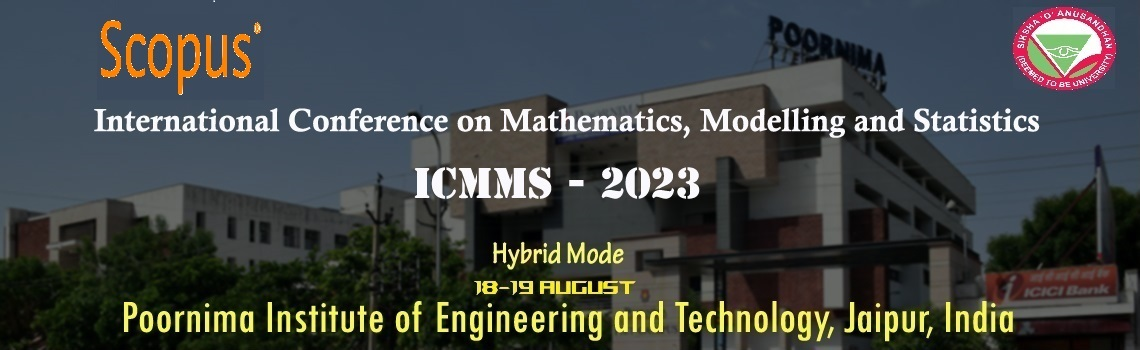
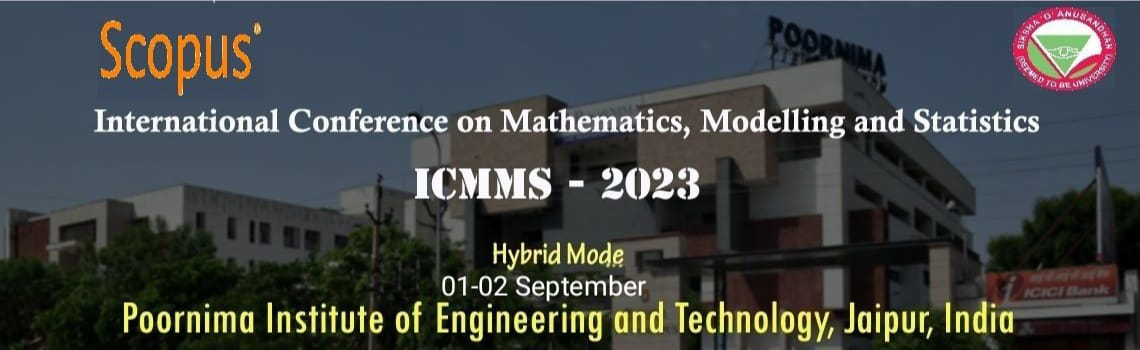
change

diff --git a/Committee.html b/Committee.html
@@ -2,7 +2,7 @@
 <html>
 <head>
 <meta http-equiv="Content-Type" content="text/html; charset=UTF-8">
-                <title>The 1st ICMMS 2023 - Comittee</title>
+                <title>ICMMS 2023 - Comittee</title>
                 <meta name="viewport" content="width=device-width, initial-scale=1">
                 <meta name="description" content="">
                 <meta name="keywords" content="">
@@ -196,7 +196,7 @@
         <p class="wow fadeInUp"><b style="font-family: GoogleBold">Dr. Bhanu Pratap,</b> <br>Associate Professor, PIET, Jaipur</p>
         <p class="wow fadeInUp"><b style="font-family: GoogleBold">Dr. Uday Pratap Singh</b> <br>Associate Professor, PIET, Jaipur</p>
         <p class="wow fadeInUp"><b style="font-family: GoogleBold">Dr. Shivanshi Singh</b> <br>Assistant Professor PIET, Jaipur</p>
-        <p class="wow fadeInUp"><b style="font-family: GoogleBold">Ashish Ladhha</b> <br>Assistant Professor PIET, Jaipur</p>
+        <p class="wow fadeInUp"><b style="font-family: GoogleBold">Dr. Ashish Laddha</b> <br>Assistant Professor PIET, Jaipur</p>
       </div>
     </div>
   </div>
@@ -308,7 +308,7 @@
     </div>
     <div class="row">
       <div data-aos="fade-left" data-aos-duration="1000"  class="col-md-6">
-        <p class="wow fadeInUp"><b style="font-family: GoogleBold">Prof. D.S. Hooda</b> <br>Former PVC, Kurukshetra University,</p>
+        <p class="wow fadeInUp"><b style="font-family: GoogleBold">Prof. D.S. Hooda</b> <br>Former PVC, Kurukshetra,GJ University of Science,Hisar</p>
       </div>
       <div data-aos="fade-right" data-aos-duration="1000" class="col-md-6">
         <p class="wow fadeInUp"><b style="font-family: GoogleBold">Dr. K. K. Gupta</b><br>Shri Ram Murti Smarak College of Engineering & Technology, Bareilly</p>
@@ -316,9 +316,7 @@
     </div>
 
     <div class="row">
-      <div data-aos="fade-left" data-aos-duration="1000"  class="col-md-6">
-        <p class="wow fadeInUp"><b style="font-family: GoogleBold">GJ University of Science&amp; Tech</b> <br>Hisar, India</p>
-      </div>
+     
       <div data-aos="fade-right" data-aos-duration="1000" class="col-md-6">
         <p class="wow fadeInUp"><b style="font-family: GoogleBold">Prof. (Dr.) C.B. Gupta,</b> <br>Former Professor, BITS, Pilani and The North Cap University, Gurugram, India</p>
       </div>
@@ -333,7 +331,7 @@
     </div>
     <div class="row">
       <div data-aos="fade-left" data-aos-duration="1000"  class="col-md-6">
-        <p class="wow fadeInUp"><b style="font-family: GoogleBold">Dr. Sandeep Tiwari,</b> <br>Dr. Sandeep Tiwari,</p>
+        <p class="wow fadeInUp"><b style="font-family: GoogleBold">Dr. Sandeep Tiwari,</b> <br>Vikram university,ujjain(M.P)</p>
       </div>
       <div data-aos="fade-right" data-aos-duration="1000" class="col-md-6">
         <p class="wow fadeInUp"><b style="font-family: GoogleBold">Prof. (Dr.) Binwal,</b> <br>Mody University of Science and Technology, Lakshamangarh, Sikar (Raj.) India</p>
@@ -382,6 +380,16 @@
       <div data-aos="fade-right" data-aos-duration="1000" class="col-md-6">
         <p class="wow fadeInUp"><b style="font-family: GoogleBold">Prof. (Dr.) A. K. Malik</b> <br>Rajarshi Tandon Open University Prayagraj, (U. P.) India</p>
       </div>
+      <div data-aos="fade-left" data-aos-duration="1000"  class="col-md-6">
+        <p class="wow fadeInUp"><b style="font-family: GoogleBold">Dr. R. K. Gujetiya</b> <br>Swami Vivekanand Govt. P. G. College, Neemuch (M. P.)
+        </p>
+      </div>
+      <div data-aos="fade-right" data-aos-duration="1000" class="col-md-6">
+        <p class="wow fadeInUp"><b style="font-family: GoogleBold">Dr. V. C. Jain</b> <br> Govt. Engineering College, Ajmer (Raj.)</p>
+      </div>
+      <div data-aos="fade-right" data-aos-duration="1000" class="col-md-6">
+        <p class="wow fadeInUp"><b style="font-family: GoogleBold">Dr. R. P. Sharma</b> <br>Govt. Engineering College, Ajmer (Raj.)</p>
+      </div>
     </div>
     </div>
   <br>
@@ -424,6 +432,7 @@
       </div>
     </div>
   </div>
+</div>
 </div>
 
 <div class="fixed-footer ">

diff --git a/index.html b/index.html
@@ -2,7 +2,7 @@
 <html>
 <head>
 <meta http-equiv="Content-Type" content="text/html; charset=UTF-8">
-                <title>The 1st ICMMS 2023</title>
+                <title>ICMMS 2023</title>
                 <meta name="viewport" content="width=device-width, initial-scale=1">
                 <meta name="description" content="">
                 <meta name="keywords" content="">
@@ -81,7 +81,7 @@
     <div class="row row-cols-md-6 row-cols-2 ">
       <div data-aos="fade-right" data-aos-duration="800"
         class="col-md-2 my-2 py-4 d-flex justify-content-center">
-        <i class="fa-5x fa-solid fa-calendar-days text-center text-size " style="color:#688fa9;" ><p class=" date-size pt-2">30<sup>th</sup> April 2023</p>
+        <i class="fa-5x fa-solid fa-calendar-days text-center text-size " style="color:#688fa9;" ><p class=" date-size pt-2">15<sup>th</sup> May 2023</p>
                                                                           <p class="date-size fs-6 text-secondary font-monospace">Full Paper Submission</p></i>
       </div>
       <div data-aos="fade-right" data-aos-duration="1000"
@@ -91,22 +91,22 @@
       </div>
       <div data-aos="fade-right" data-aos-duration="1200"
         class="col-md-2 my-2 py-4 d-flex justify-content-center">
-        <i class="fa-5x fa-solid fa-calendar-days text-center text-size " style="color:#9046a2;"><p class=" date-size pt-2">15<sup>th</sup> June 2023</p>
+        <i class="fa-5x fa-solid fa-calendar-days text-center text-size " style="color:#9046a2;"><p class=" date-size pt-2">30<sup>th</sup> June 2023</p>
                                                                           <p class="date-size fs-6 text-secondary font-monospace">Camera Ready Paper Submission</p></i>
       </div>
       <div data-aos="fade-right" data-aos-duration="1400"
         class="col-md-2 my-2 py-4 d-flex justify-content-center">
-        <i class="fa-5x fa-solid fa-calendar-days text-center text-size " style="color:#ae5098;"><p class=" date-size pt-2">15<sup>th</sup> June 2023</p>
+        <i class="fa-5x fa-solid fa-calendar-days text-center text-size " style="color:#ae5098;"><p class=" date-size pt-2">30<sup>th</sup> June 2023</p>
                                                                           <p class="date-size fs-6 text-secondary font-monospace">Early bird Registration</p></i>
       </div>
       <div data-aos="fade-right" data-aos-duration="1600"
         class="col-md-2 my-2 py-4 d-flex justify-content-center">
-        <i class="fa-5x fa-solid fa-calendar-days text-center text-size " style="color:#c46c98;"><p class=" date-size pt-2">15<sup>th</sup> June 2023</p>
-                                                                          <p class="date-size fs-6 text-secondary font-monospace">Late Registration</p></i>
+        <i class="fa-5x fa-solid fa-calendar-days text-center text-size " style="color:#c46c98;"><p class=" date-size pt-2">30<sup>th</sup> July 2023</p>
+                                                                          <p class="date-size fs-6 text-secondary font-monospace">Last Date of Registration</p></i>
       </div>
       <div data-aos="fade-right" data-aos-duration="1800"
         class="col-md-2 my-2 py-4 d-flex justify-content-center">
-        <i class="fa-5x fa-solid fa-calendar-days text-center text-size " style="color:#b14d5e;"><p class=" date-size pt-2">18<sup>th</sup> - 19<sup>th</sup> August 2023</p>
+        <i class="fa-5x fa-solid fa-calendar-days text-center text-size " style="color:#b14d5e;"><p class=" date-size pt-2">01<sup>th</sup> - 02<sup>th</sup> September 2023</p>
                                                                           <p class="date-size fs-6 text-secondary font-monospace">Conference Date</p></i>
       </div>
     </div>

diff --git a/Registration.html b/Registration.html
@@ -2,7 +2,7 @@
 <html>
 <head>
 <meta http-equiv="Content-Type" content="text/html; charset=UTF-8">
-                <title>The 1st ICMMS 2023 - Registration</title>
+                <title>ICMMS 2023 - Registration</title>
                 <meta name="viewport" content="width=device-width, initial-scale=1">
                 <meta name="description" content="">
                 <meta name="keywords" content="">
@@ -83,9 +83,9 @@
             <li>Participants should send the registration form in specified format along with the
               registration fee.
             </li>
-            <li>For online payment please visit conference website.
+            <li>For online payment please visit Payment Details.
             </li>
-            <li>Selected papers will be published in quality Journals like AIP, Scopus, Springer etc</li>
+            
         </ul>
       </div>
 
@@ -100,9 +100,12 @@
         <ul>
           <li>For each accepted paper, at least one of the authors must register for the conference.</li>
             <li>One registration in the Author’s Registration Category is mandatory for
-               <li>Presentation of the paper in the conference</li> 
-                <li>Inclusion of paper in the conference proceedings.
-                </li>
+              <ol>
+                <li>Presentation of the paper in the conference</li> 
+                <li>Inclusion of paper in the conference proceedings.</li>
+              </ol>
+               
+                
             </li>
             <li> If one of the authors of the paper has registered in author’s registration category then all other authors of the paper may register under co-authors’ registration category if they wish to attend the conference.
             </li>
@@ -155,7 +158,7 @@
             <table class="center">
               <tr>
                 <th>Full Paper Submission</th>
-                <td>April 30, 2023</td>
+                <td>May 15, 2023</td>
               </tr>
               <tr>
                 <th>Acceptance of Paper</th>
@@ -163,19 +166,19 @@
               </tr>
               <tr>
                 <th>Camera Ready Paper Submission</th>
-                <td>June 15, 2023</td>
+                <td>June 30, 2023</td>
               </tr>
               <tr>
                 <th>Early bird Registration</th>
-                <td>June 15, 2023</td>
+                <td>June 30, 2023</td>
               </tr>
               <tr>
                 <th>Late Registration</th>
-                <td>June 15, 2023</td>
+                <td>July 30, 2023</td>
               </tr>
               <tr>
                 <th>Conference Date</th>
-                <td>18 &amp; 19 August 2023</td>
+                <td>01 &amp; 02 september 2023</td>
               </tr>
             </table>
           </div>

diff --git a/Call for Sessions.html b/Call for Sessions.html
@@ -49,7 +49,7 @@
             <a class="nav-link active" aria-current="page" href="Call for Sessions.html">Call for Paper</a>
           </li>
           <li class="nav-item px-2">
-            <a class="nav-link text-warning" href="Speakers.html">Speakers</a>
+            <a class="nav-link text-warning" href="speakers.html">Speakers</a>
           </li>
          <li class="nav-item px-2">
             <a class="nav-link text-warning" href="Committee.html">Committee</a>
@@ -211,7 +211,7 @@ fee of respective journals,some of the Journals/Book series are:
             <table class="center">
               <tr>
                 <th>Full Paper Submission</th>
-                <td>April 30, 2023</td>
+                <td>May 15, 2023</td>
               </tr>
               <tr>
                 <th>Acceptance of Paper</th>
@@ -219,19 +219,19 @@ fee of respective journals,some of the Journals/Book series are:
               </tr>
               <tr>
                 <th>Camera Ready Paper Submission</th>
-                <td>June 15, 2023</td>
+                <td>June 30, 2023</td>
               </tr>
               <tr>
                 <th>Early bird Registration</th>
-                <td>June 15, 2023</td>
+                <td>June 30, 2023</td>
               </tr>
               <tr>
                 <th>Late Registration</th>
-                <td>June 15, 2023</td>
+                <td>July 30, 2023</td>
               </tr>
               <tr>
                 <th>Conference Date</th>
-                <td>18 &amp; 19 August 2023</td>
+                <td>01 &amp; 02 september 2023</td>
               </tr>
             </table>
         </div>

diff --git a/contact.html b/contact.html
@@ -2,7 +2,7 @@
 <html>
 <head>
 <meta http-equiv="Content-Type" content="text/html; charset=UTF-8">
-                <title>The 1st ICMMS 2023</title>
+                <title>ICMMS 2023</title>
                 <meta name="viewport" content="width=device-width, initial-scale=1">
                 <meta name="description" content="">
                 <meta name="keywords" content="">
@@ -74,7 +74,10 @@
      <h4>Dr. Priya Mathur</h4>
      <p class="title">Professor, Department of Mathematics</p>
      <p>Poornima Institute Of Engineering & technology</p>
-     E-Mail Address: <a class="mail-anchor" href="mailto:priya.mathur@poornima.org">priya.mathur@poornima.org</a><br>
+     Personal E-Mail Address: <a class="mail-anchor" href="mailto:priya.mathur@poornima.org">priya.mathur@poornima.org</a>
+     <br>
+     Conference E-Mail Address: <a class="mail-anchor" href="mailto:priya.mathur@poornima.org">icmms2023@poornima.org</a>
+     <br>
      <p><a class="button1" href="tel:+917790974955">Contact</a></p>
     </div>
   </div>
@@ -84,7 +87,8 @@
       <h4>Dr. Omprakash Sikhwal</h4>
       <p class="title">Professor, Department of Mathematics</p>
       <p>Poornima Institute Of Engineering & technology</p>
-      E-Mail Address: <a class="mail-anchor" href="mailto:om.sikhwal@poornima.org">om.sikhwal@poornima.org</a><br>
+     Personal E-Mail Address: <a class="mail-anchor" href="mailto:om.sikhwal@poornima.org">om.sikhwal@poornima.org</a><br>
+      Conference E-Mail Address: <a class="mail-anchor" href="mailto:priya.mathur@poornima.org">icmms2023@poornima.org</a>
       <p><a class="button1" href=" tel:+918989768787">Contact</a></p>
     </div>
   </div>

diff --git a/Venue.html b/Venue.html
@@ -2,7 +2,7 @@
 <html>
 <head>
 <meta http-equiv="Content-Type" content="text/html; charset=UTF-8">
-                <title>The 1st ICMMS 2023</title>
+                <title>ICMMS 2023</title>
                 <meta name="viewport" content="width=device-width, initial-scale=1">
                 <meta name="description" content="">
                 <meta name="keywords" content="">
@@ -36,7 +36,7 @@
             <a class="nav-link text-warning" aria-current="page" href="index.html">Home</a>
           </li>
           <li class="nav-item px-2">
-            <a class="nav-link btn btn-dark text-warning"  aria-current="page" href="subGuidlines.html">Submission</a>
+            <a class="nav-link  text-warning" aria-current="page" href="subGuidlines.html">Submission</a>
           </li>
           <li class="nav-item px-2">
             <a class="nav-link text-warning" aria-current="page" href="Registration.html">Registration</a>

diff --git a/speakers.html b/speakers.html
@@ -2,7 +2,7 @@
 <html>
 <head>
 	<meta http-equiv="Content-Type" content="text/html; charset=UTF-8">
-                <title>The 1st ICMMS 2023</title>
+                <title>ICMMS 2023</title>
                 <meta name="viewport" content="width=device-width, initial-scale=1">
                 <meta name="description" content="">
                 <meta name="keywords" content="">

diff --git a/subGuidlines.html b/subGuidlines.html
@@ -2,7 +2,7 @@
 <html>
 <head>
 <meta http-equiv="Content-Type" content="text/html; charset=UTF-8">
-                <title>The 1st ICMMS 2023</title>
+                <title>ICMMS 2023</title>
                 <meta name="viewport" content="width=device-width, initial-scale=1">
                 <meta name="description" content="">
                 <meta name="keywords" content="">
